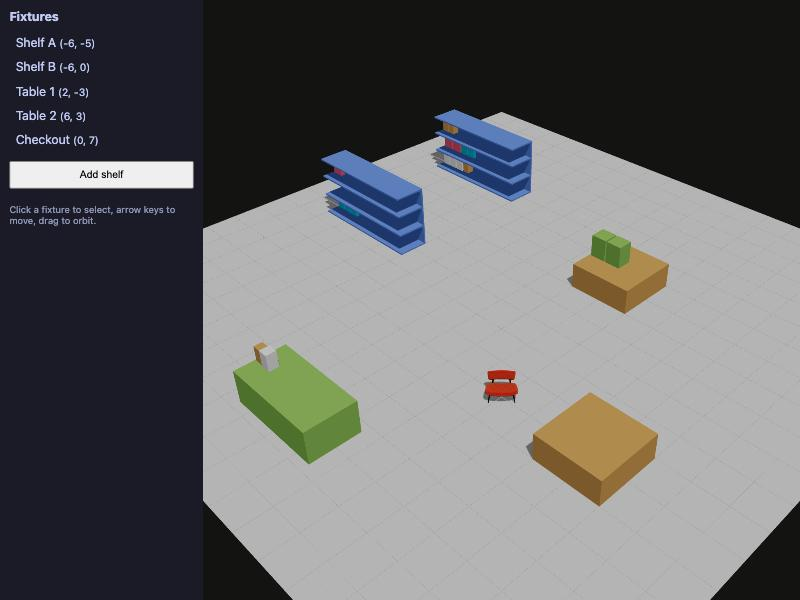
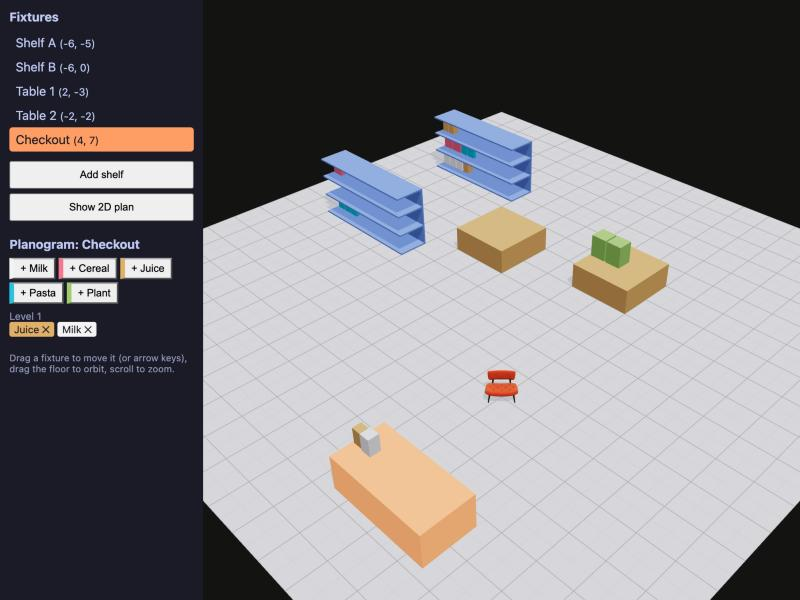
Add drag on the floor plane, 2D plan view, environment light and loader

diff --git a/src/Scene.tsx b/src/Scene.tsx
@@ -1,6 +1,6 @@
 import { Suspense } from "react";
 import { Canvas } from "@react-three/fiber";
-import { Grid, OrbitControls } from "@react-three/drei";
+import { Environment, Grid, Html, OrbitControls, OrthographicCamera, PerspectiveCamera, useProgress } from "@react-three/drei";
 import { FLOOR_SIZE, useStore } from "./store";
 import { Fixture } from "./Fixture";
 import { DisplayItem } from "./DisplayItem";
@@ -8,17 +8,31 @@ import { DisplayItem } from "./DisplayItem";
 export function Scene() {
   const fixtures = useStore((s) => s.fixtures);
   const select = useStore((s) => s.select);
+  const dragging = useStore((s) => s.dragging);
+  const view = useStore((s) => s.view);
 
   return (
-    // Canvas creates the renderer, the scene graph root and the camera.
+    // Canvas creates the renderer and the scene graph root.
     // Everything inside is a three.js object declared as JSX.
     <Canvas
       shadows
-      camera={{ position: [14, 14, 14], fov: 40 }} // isometric-ish view from a corner
       onPointerMissed={() => select(null)} // click that hits no mesh clears the selection
     >
-      {/* Lights: ambient fills everything evenly, directional acts like the sun and casts shadows. */}
-      <ambientLight intensity={0.5} />
+      {/* Two cameras: perspective (lines converge, like the eye) for the 3D view, orthographic
+          (parallel projection, no foreshortening) straight down for a true-to-scale floor plan.
+          makeDefault tells R3F and OrbitControls which one to render through. */}
+      {view === "3d" ? (
+        <PerspectiveCamera makeDefault position={[14, 14, 14]} fov={40} />
+      ) : (
+        <OrthographicCamera makeDefault position={[0, 30, 0]} zoom={28} />
+      )}
+
+      {/* Lights: ambient fills everything evenly, directional acts like the sun and casts shadows,
+          and Environment adds image-based lighting from an HDRI so PBR materials get reflections. */}
+      <ambientLight intensity={0.3} />
+      <Suspense fallback={null}>
+        <Environment preset="city" environmentIntensity={0.4} />
+      </Suspense>
       <directionalLight
         position={[10, 20, 5]}
         intensity={1.2}
@@ -45,12 +59,23 @@ export function Scene() {
       ))}
 
       {/* A glTF model streams in asynchronously; the rest of the scene renders meanwhile. */}
-      <Suspense fallback={null}>
+      <Suspense fallback={<Loader />}>
         <DisplayItem />
       </Suspense>
 
-      {/* OrbitControls: drag to orbit, scroll to zoom, right-drag to pan. */}
-      <OrbitControls makeDefault maxPolarAngle={Math.PI / 2.1} />
+      {/* OrbitControls: drag to orbit, scroll to zoom, right-drag to pan. Remounted (key) when the
+          camera changes, and rotation is off in plan view so it stays a top-down drawing. */}
+      <OrbitControls key={view} makeDefault enabled={!dragging} enableRotate={view === "3d"} maxPolarAngle={Math.PI / 2.1} />
     </Canvas>
+  );
+}
+
+// Html renders ordinary DOM on top of the canvas at a 3D position; useProgress reports loader progress.
+function Loader() {
+  const { progress } = useProgress();
+  return (
+    <Html center style={{ color: "#555", fontFamily: "system-ui", whiteSpace: "nowrap" }}>
+      Loading {Math.round(progress)} %
+    </Html>
   );
 }

diff --git a/src/Fixture.tsx b/src/Fixture.tsx
@@ -1,13 +1,42 @@
-import { useState } from "react";
+import { useRef, useState } from "react";
+import { Plane, Vector3 } from "three";
+import type { ThreeEvent } from "@react-three/fiber";
 import type { Fixture as FixtureData } from "./store";
 import { GAP, productBySku, useStore } from "./store";
 
 const PLANK = 0.05; // thickness of shelf planks and the back panel
+const FLOOR = new Plane(new Vector3(0, 1, 0), 0); // the plane y = 0, used to turn a pointer ray into a floor point
 
 export function Fixture({ fixture }: { fixture: FixtureData }) {
   const selected = useStore((s) => s.selectedId === fixture.id);
   const select = useStore((s) => s.select);
+  const setPosition = useStore((s) => s.setPosition);
+  const setDragging = useStore((s) => s.setDragging);
   const [hovered, setHovered] = useState(false);
+  // Offset from the grabbed floor point to the fixture origin, so it doesn't jump to the cursor.
+  const grab = useRef<Vector3 | null>(null);
+  const hit = new Vector3();
+
+  // Dragging: every pointer event carries the ray R3F cast from the camera through the cursor.
+  // Intersecting that ray with the floor plane gives the world point under the cursor.
+  const onPointerDown = (e: ThreeEvent<PointerEvent>) => {
+    e.stopPropagation();
+    select(fixture.id);
+    if (!e.ray.intersectPlane(FLOOR, hit)) return;
+    grab.current = hit.clone().sub(new Vector3(fixture.position[0], 0, fixture.position[1]));
+    (e.target as HTMLElement).setPointerCapture(e.pointerId); // keep receiving moves even off the mesh
+    setDragging(true);
+  };
+  const onPointerMove = (e: ThreeEvent<PointerEvent>) => {
+    if (!grab.current || !e.ray.intersectPlane(FLOOR, hit)) return;
+    setPosition(fixture.id, hit.x - grab.current.x, hit.z - grab.current.z);
+  };
+  const onPointerUp = (e: ThreeEvent<PointerEvent>) => {
+    if (!grab.current) return;
+    grab.current = null;
+    (e.target as HTMLElement).releasePointerCapture(e.pointerId);
+    setDragging(false);
+  };
   const [w, h, d] = fixture.size;
   const color = selected ? "#ff9e64" : fixture.color;
   const emissive = selected ? "#ff9e64" : hovered ? "#ffffff" : "#000000";
@@ -19,13 +48,12 @@ export function Fixture({ fixture }: { fixture: FixtureData }) {
   return (
     // A group is a node in the scene graph: children inherit its transform, so moving the
     // group moves the planks and every product on them. Pointer events bubble up to it too,
-    // so clicking a product selects its fixture.
+    // so grabbing a product drags its fixture.
     <group
       position={[fixture.position[0], 0, fixture.position[1]]}
-      onClick={(e) => {
-        e.stopPropagation(); // don't let the click fall through to meshes behind this one
-        select(fixture.id);
-      }}
+      onPointerDown={onPointerDown}
+      onPointerMove={onPointerMove}
+      onPointerUp={onPointerUp}
       onPointerOver={() => {
         setHovered(true);
         document.body.style.cursor = "pointer";

diff --git a/src/store.ts b/src/store.ts
@@ -30,7 +30,12 @@ export type Fixture = {
 type State = {
   fixtures: Fixture[];
   selectedId: number | null;
+  dragging: boolean; // true while a fixture is being dragged, so OrbitControls can be paused
+  view: "3d" | "plan";
   select: (id: number | null) => void;
+  setDragging: (dragging: boolean) => void;
+  toggleView: () => void;
+  setPosition: (id: number, x: number, z: number) => void;
   move: (id: number, dx: number, dz: number) => void;
   add: () => void;
   addProduct: (fixtureId: number, sku: string) => boolean; // false when no level has room
@@ -53,16 +58,20 @@ export const usedWidth = (skus: string[]) => skus.reduce((sum, sku) => sum + pro
 export const useStore = create<State>((set, get) => ({
   fixtures: seed,
   selectedId: null,
+  dragging: false,
+  view: "3d",
   select: (id) => set({ selectedId: id }),
+  setDragging: (dragging) => set({ dragging }),
+  toggleView: () => set((s) => ({ view: s.view === "3d" ? "plan" : "3d" })),
   // Snap to a 1-unit grid and keep the fixture on the floor.
-  move: (id, dx, dz) =>
+  setPosition: (id, x, z) =>
     set((s) => ({
-      fixtures: s.fixtures.map((f) =>
-        f.id === id
-          ? { ...f, position: [clamp(Math.round(f.position[0] + dx)), clamp(Math.round(f.position[1] + dz))] }
-          : f,
-      ),
+      fixtures: s.fixtures.map((f) => (f.id === id ? { ...f, position: [clamp(Math.round(x)), clamp(Math.round(z))] } : f)),
     })),
+  move: (id, dx, dz) => {
+    const f = get().fixtures.find((x) => x.id === id);
+    if (f) get().setPosition(id, f.position[0] + dx, f.position[1] + dz);
+  },
   add: () =>
     set((s) => {
       const id = Math.max(0, ...s.fixtures.map((f) => f.id)) + 1;

diff --git a/src/Panel.tsx b/src/Panel.tsx
@@ -8,6 +8,8 @@ export function Panel() {
   const add = useStore((s) => s.add);
   const addProduct = useStore((s) => s.addProduct);
   const removeProduct = useStore((s) => s.removeProduct);
+  const view = useStore((s) => s.view);
+  const toggleView = useStore((s) => s.toggleView);
   const selected = fixtures.find((f) => f.id === selectedId);
 
   return (
@@ -32,6 +34,9 @@ export function Panel() {
       </ul>
       <button onClick={add} style={{ marginTop: 12, width: "100%", padding: 8 }}>
         Add shelf
+      </button>
+      <button onClick={toggleView} style={{ marginTop: 6, width: "100%", padding: 8 }}>
+        {view === "3d" ? "Show 2D plan" : "Show 3D view"}
       </button>
 
       {selected && (
@@ -69,7 +74,7 @@ export function Panel() {
           ))}
         </>
       )}
-      <p style={{ fontSize: 12, opacity: 0.7, marginTop: 20 }}>Click a fixture to select, arrow keys to move, drag to orbit.</p>
+      <p style={{ fontSize: 12, opacity: 0.7, marginTop: 20 }}>Drag a fixture to move it (or arrow keys), drag the floor to orbit, scroll to zoom.</p>
     </aside>
   );
 }

diff --git a/README.md b/README.md
@@ -15,17 +15,20 @@ npm install
 npm run dev
 ```
 
-Drag to orbit, scroll to zoom, click a fixture to select it, arrow keys move it one grid cell.
+Drag a fixture to move it (or select it and use the arrow keys), drag the floor to orbit, scroll
+to zoom. "Show 2D plan" switches to a top-down orthographic floor plan.
 With a fixture selected, use the "+ Product" buttons in the panel to fill its shelves.
 
 ## 3D concepts it demonstrates
 
 - **Scene graph** – `<Canvas>` is the root; every JSX element inside is a three.js object in a tree ([Scene.tsx](src/Scene.tsx)).
 - **Parent/child transforms** – each fixture is a `<group>`; its planks and products are children positioned relative to it, so moving the group moves everything on the shelf ([Fixture.tsx](src/Fixture.tsx)).
-- **Camera** – a perspective camera placed at a corner above the floor gives the isometric-style view.
-- **Lights** – an ambient light fills the scene evenly and a directional light acts as the sun and casts shadows.
+- **Cameras** – a perspective camera at a corner above the floor gives the 3D view; an orthographic camera straight above gives a true-to-scale 2D floor plan, and `makeDefault` switches between them.
+- **Lights** – an ambient light fills the scene evenly, a directional light acts as the sun and casts shadows (with a shadow bias to avoid acne), and `<Environment>` adds image-based lighting from an HDRI so PBR materials get realistic reflections.
 - **Mesh = geometry + material** – each fixture is a `boxGeometry` wrapped in a `meshStandardMaterial` ([Fixture.tsx](src/Fixture.tsx)).
-- **Raycasting / picking** – R3F raycasts from the camera through the pointer, so `onClick` on the fixture group is all it takes to select it (events bubble from the hit product mesh up to the group); `onPointerMissed` on the canvas deselects.
+- **Raycasting / picking** – R3F raycasts from the camera through the pointer, so a pointer handler on the fixture group is all it takes to select it (events bubble from the hit product mesh up to the group); `onPointerMissed` on the canvas deselects.
+- **Dragging in world space** – the pointer event carries the ray; intersecting it with the floor plane (`ray.intersectPlane`) turns a 2D cursor into a 3D floor point, which works for both cameras. OrbitControls is paused while dragging.
 - **OrbitControls** – the drei helper that turns pointer drags into camera orbit, zoom and pan.
+- **HTML inside the scene** – drei `<Html>` positions ordinary DOM in 3D space; here it shows loader progress from `useProgress` while the glTF streams in.
 - **Shared state between 3D and HTML** – one zustand store drives both the meshes and the plain HTML list; the planogram editor is ordinary React that writes to the same store ([store.ts](src/store.ts), [Panel.tsx](src/Panel.tsx)).
 - **glTF** – a display chair (the Khronos "SheenChair" sample asset in `public/`) is loaded with `useGLTF` inside `<Suspense>` and mounted with `<primitive>` ([DisplayItem.tsx](src/DisplayItem.tsx)).
